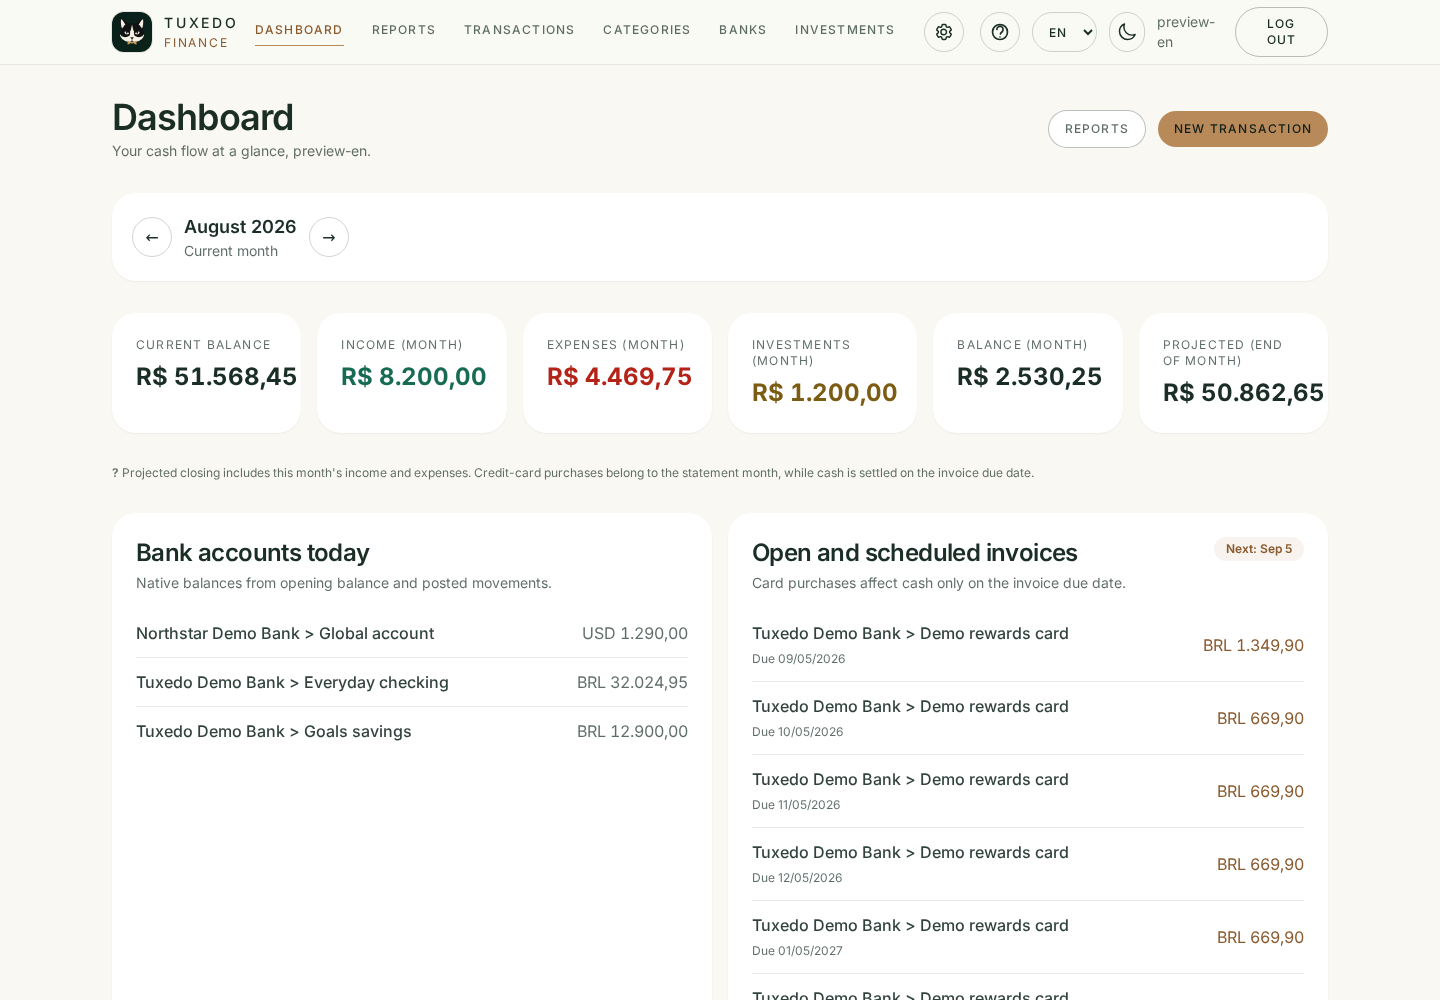
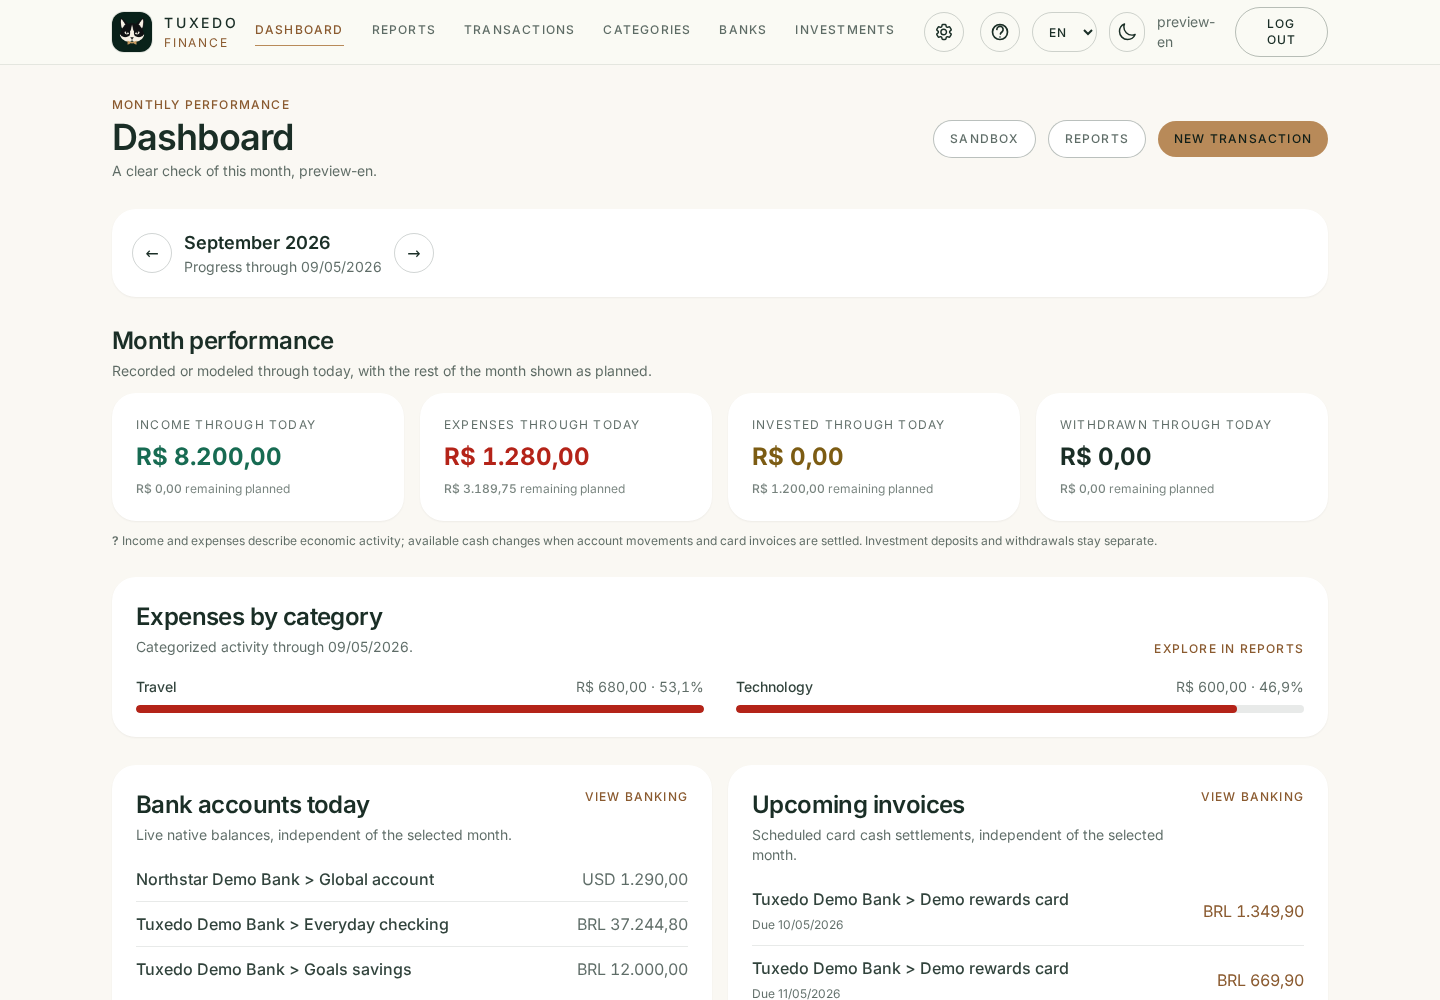
feat: enhance dark theme support and improve language navigation in preview

diff --git a/preview/pt-br/index.html b/preview/pt-br/index.html
@@ -23,7 +23,7 @@
             document.documentElement.dataset.theme = dark ? 'dark' : 'light';
         })();
     </script>
-    <link rel="stylesheet" href="../assets/preview.css">
+    <link rel="stylesheet" href="../assets/preview.css?v=2">
     <script src="../assets/preview.js" defer></script>
 </head>
 <body>
@@ -40,8 +40,8 @@
             </nav>
             <div class="header-actions">
                 <div class="language-switch" aria-label="Idioma">
-                    <a href="../" lang="en" hreflang="en">EN</a>
-                    <a href="./" lang="pt-BR" aria-current="page">PT</a>
+                    <a href="../index.html" lang="en" hreflang="en">EN</a>
+                    <a href="index.html" lang="pt-BR" aria-current="page">PT</a>
                 </div>
                 <button class="theme-toggle" type="button" data-theme-toggle aria-label="Alternar entre os temas claro e escuro" aria-pressed="false">
                     <span class="sun" aria-hidden="true">☀</span>
@@ -71,21 +71,21 @@
 
         <section class="tour-section" id="dashboard">
             <div class="section-heading">
-                <div><span class="section-number">01 / Dashboard</span><h2>O caixa de hoje e o restante do mês.</h2></div>
-                <p class="section-copy">Saldo Atual representa o caixa realizado nas contas. Os cartões do mês separam receitas, despesas e investimentos, enquanto Projetado mostra o fechamento esperado.</p>
+                <div><span class="section-number">01 / Dashboard</span><h2>Atividade mensal e contas atuais.</h2></div>
+                <p class="section-copy">O mês selecionado separa a atividade registrada do que está planejado, mantendo receitas, despesas, aportes e resgates distintos. Os saldos atuais das contas e as próximas faturas permanecem independentes do mês selecionado.</p>
             </div>
             <div class="screenshot-grid">
                 <figure>
                     <a class="screenshot-link" href="../images/pt-br/dashboard-light.png" data-lightbox>
-                        <img src="../images/pt-br/dashboard-light.png" width="1440" height="1000" alt="Dashboard do Tuxedo Finance no tema claro com saldo atual, totais mensais, contas bancárias e faturas programadas" fetchpriority="high" decoding="async">
+                        <img src="../images/pt-br/dashboard-light.png" width="1440" height="1000" alt="Dashboard do Tuxedo Finance no tema claro com atividade mensal, valores planejados, categorias de despesas, contas bancárias e próximas faturas" fetchpriority="high" decoding="async">
                     </a>
-                    <figcaption>Tema claro — caixa atual, atividade mensal e fechamento projetado.</figcaption>
+                    <figcaption>Tema claro — atividade mensal, valores planejados e contas atuais.</figcaption>
                 </figure>
                 <figure>
                     <a class="screenshot-link" href="../images/pt-br/dashboard-dark.png" data-lightbox>
                         <img src="../images/pt-br/dashboard-dark.png" width="1440" height="1000" alt="Dashboard do Tuxedo Finance mostrando o mesmo resumo financeiro sintético no tema escuro" loading="lazy" decoding="async">
                     </a>
-                    <figcaption>Tema escuro — os mesmos significados financeiros com cores acessíveis correspondentes.</figcaption>
+                    <figcaption>Tema escuro — superfícies em preto e grafite com cores financeiras distintas.</figcaption>
                 </figure>
             </div>
         </section>
@@ -112,7 +112,7 @@
                 <a class="screenshot-link" href="../images/pt-br/transactions-light.png" data-lightbox>
                     <img src="../images/pt-br/transactions-light.png" width="1440" height="1000" alt="Lista de transações com filtros e receitas, despesas fixas, parcelas no cartão e pagamentos PIX sintéticos" loading="lazy" decoding="async">
                 </a>
-                <figcaption>Pesquisa, ordenação, filtros mensais e exportação CSV apoiam consultas rápidas e revisões detalhadas.</figcaption>
+                <figcaption>Tipos de transação com contagens, atalhos de recorrência, categorias contextuais e filtros de datas complementam a pesquisa, a ordenação e a exportação CSV.</figcaption>
             </figure>
         </section>
 

diff --git a/preview/index.html b/preview/index.html
@@ -23,7 +23,7 @@
             document.documentElement.dataset.theme = dark ? 'dark' : 'light';
         })();
     </script>
-    <link rel="stylesheet" href="assets/preview.css">
+    <link rel="stylesheet" href="assets/preview.css?v=2">
     <script src="assets/preview.js" defer></script>
 </head>
 <body>
@@ -40,8 +40,8 @@
             </nav>
             <div class="header-actions">
                 <div class="language-switch" aria-label="Language">
-                    <a href="./" lang="en" aria-current="page">EN</a>
-                    <a href="pt-br/" lang="pt-BR" hreflang="pt-BR">PT</a>
+                    <a href="index.html" lang="en" aria-current="page">EN</a>
+                    <a href="pt-br/index.html" lang="pt-BR" hreflang="pt-BR">PT</a>
                 </div>
                 <button class="theme-toggle" type="button" data-theme-toggle aria-label="Toggle light and dark theme" aria-pressed="false">
                     <span class="sun" aria-hidden="true">☀</span>
@@ -71,21 +71,21 @@
 
         <section class="tour-section" id="dashboard">
             <div class="section-heading">
-                <div><span class="section-number">01 / Dashboard</span><h2>Cash today and the month ahead.</h2></div>
-                <p class="section-copy">Current Balance represents realized account cash. The month cards keep income, expenses and investments separate, while Projected shows the expected closing balance.</p>
+                <div><span class="section-number">01 / Dashboard</span><h2>Monthly activity and current accounts.</h2></div>
+                <p class="section-copy">The selected month separates recorded activity from what is planned, keeping income, expenses, investment deposits and withdrawals distinct. Current account balances and upcoming invoices remain independent of the selected month.</p>
             </div>
             <div class="screenshot-grid">
                 <figure>
                     <a class="screenshot-link" href="images/en/dashboard-light.png" data-lightbox>
-                        <img src="images/en/dashboard-light.png" width="1440" height="1000" alt="Tuxedo Finance dashboard in the light theme with current balance, monthly totals, bank accounts and scheduled card invoices" fetchpriority="high" decoding="async">
+                        <img src="images/en/dashboard-light.png" width="1440" height="1000" alt="Tuxedo Finance dashboard in the light theme with monthly activity, planned amounts, expense categories, bank accounts and upcoming card invoices" fetchpriority="high" decoding="async">
                     </a>
-                    <figcaption>Light theme — current cash, monthly activity and projected close.</figcaption>
+                    <figcaption>Light theme — monthly activity, planned amounts and current accounts.</figcaption>
                 </figure>
                 <figure>
                     <a class="screenshot-link" href="images/en/dashboard-dark.png" data-lightbox>
                         <img src="images/en/dashboard-dark.png" width="1440" height="1000" alt="Tuxedo Finance dashboard showing the same synthetic financial summary in the dark theme" loading="lazy" decoding="async">
                     </a>
-                    <figcaption>Dark theme — the same financial meanings with accessible companion colors.</figcaption>
+                    <figcaption>Dark theme — black and graphite surfaces with distinct financial colors.</figcaption>
                 </figure>
             </div>
         </section>
@@ -112,7 +112,7 @@
                 <a class="screenshot-link" href="images/en/transactions-light.png" data-lightbox>
                     <img src="images/en/transactions-light.png" width="1440" height="1000" alt="Transaction list with search filters and synthetic income, fixed expenses, card installments and PIX payments" loading="lazy" decoding="async">
                 </a>
-                <figcaption>Search, ordering, month filters and CSV export support both quick checks and detailed review.</figcaption>
+                <figcaption>Counted transaction types, recurrence shortcuts, contextual categories and date filters complement search, ordering and CSV export.</figcaption>
             </figure>
         </section>
 

diff --git a/tests/preview/preview.spec.js b/tests/preview/preview.spec.js
@@ -1,4 +1,6 @@
 const { test, expect } = require('@playwright/test');
+const path = require('node:path');
+const { pathToFileURL } = require('node:url');
 
 const browserErrors = new WeakMap();
 
@@ -73,26 +75,56 @@ test('English and Portuguese tours use localized pages and image sets', async ({
     await expectInternalLinks(page);
 
     await page.getByRole('link', { name: 'PT', exact: true }).click();
-    await expect(page).toHaveURL(/\/pt-br\/$/);
+    await expect(page).toHaveURL(/\/pt-br\/index\.html$/);
     await expect(page.locator('html')).toHaveAttribute('lang', 'pt-BR');
     await expect(page.getByRole('heading', { level: 1 })).toContainText('Conheça suas finanças');
     await expectScreenshots(page, 'pt-br');
     await expectInternalLinks(page);
 
     await page.getByRole('link', { name: 'EN', exact: true }).click();
-    await expect(page).toHaveURL(/\/$/);
+    await expect(page).toHaveURL(/\/index\.html$/);
+});
+
+test('local HTML files support language navigation without JavaScript', async ({ browser }) => {
+    const context = await browser.newContext({ javaScriptEnabled: false });
+    const page = await context.newPage();
+    try {
+        const englishURL = pathToFileURL(path.resolve(__dirname, '../../preview/index.html')).href;
+        const portugueseURL = pathToFileURL(path.resolve(__dirname, '../../preview/pt-br/index.html')).href;
+        await page.goto(englishURL);
+        await page.getByRole('link', { name: 'PT', exact: true }).click();
+        await expect(page).toHaveURL(portugueseURL);
+        await expect(page.getByRole('heading', { level: 1 })).toContainText('Conheça suas finanças');
+        await page.getByRole('link', { name: 'PT', exact: true }).click();
+        await expect(page).toHaveURL(portugueseURL);
+        await page.getByRole('link', { name: 'EN', exact: true }).click();
+        await expect(page).toHaveURL(englishURL);
+        await expect(page.getByRole('heading', { level: 1 })).toContainText('Meet your finances');
+    } finally {
+        await context.close();
+    }
 });
 
 test('theme toggle persists the selected preview theme', async ({ page }) => {
+    await page.emulateMedia({ colorScheme: 'light' });
     await page.goto('/');
-    const before = await page.locator('html').getAttribute('data-theme');
+    await expect(page.locator('body')).toHaveCSS('background-color', 'rgb(250, 248, 243)');
+    await expect(page.locator('.screenshot-link').first()).toHaveCSS('background-color', 'rgb(255, 255, 255)');
     await page.getByRole('button', { name: 'Toggle light and dark theme' }).click();
-    const after = await page.locator('html').getAttribute('data-theme');
-    expect(after).not.toBe(before);
+    await expect(page.locator('html')).toHaveAttribute('data-theme', 'dark');
+    await expect(page.locator('body')).toHaveCSS('background-color', 'rgb(16, 16, 16)');
+    await expect(page.locator('.screenshot-link').first()).toHaveCSS('background-color', 'rgb(27, 27, 27)');
+    await page.locator('.theme-toggle').hover();
+    await expect(page.locator('.theme-toggle')).toHaveCSS('background-color', 'rgb(38, 38, 38)');
     await expect(page.getByRole('button', { name: 'Toggle light and dark theme' }))
-        .toHaveAttribute('aria-pressed', String(after === 'dark'));
+        .toHaveAttribute('aria-pressed', 'true');
     await page.reload();
-    await expect(page.locator('html')).toHaveAttribute('data-theme', after);
+    await expect(page.locator('html')).toHaveAttribute('data-theme', 'dark');
+    await page.getByRole('link', { name: 'PT', exact: true }).click();
+    await expect(page.locator('html')).toHaveAttribute('data-theme', 'dark');
+    await expect(page.locator('body')).toHaveCSS('background-color', 'rgb(16, 16, 16)');
+    await page.getByRole('button', { name: 'Alternar entre os temas claro e escuro' }).click();
+    await expect(page.locator('body')).toHaveCSS('background-color', 'rgb(250, 248, 243)');
 });
 
 test('expanded screenshots close accessibly and restore focus', async ({ page }) => {

diff --git a/preview/assets/preview.css b/preview/assets/preview.css
@@ -5,6 +5,9 @@
     --forest: #1a2e26;
     --forest-deep: #101e18;
     --forest-light: #2a4338;
+    --night: #101010;
+    --night-surface: #1b1b1b;
+    --night-raised: #262626;
     --caramel: #b88a59;
     --caramel-light: #d4ad86;
     --caramel-ink: #8a5a2f;
@@ -16,8 +19,8 @@
 
 :root[data-theme="dark"] {
     color-scheme: dark;
-    --surface: var(--forest);
-    --muted: #b8c0bc;
+    --surface: var(--night-surface);
+    --muted: #b8b8b8;
     --line: rgba(250, 248, 243, 0.15);
     --shadow: 0 24px 70px rgba(0, 0, 0, 0.34);
 }
@@ -41,7 +44,7 @@ body {
 }
 
 :root[data-theme="dark"] body {
-    background: var(--forest-deep);
+    background: var(--night);
     color: var(--cream);
 }
 
@@ -57,6 +60,14 @@ a {
 :focus-visible {
     outline: 3px solid var(--caramel);
     outline-offset: 3px;
+}
+
+:root[data-theme="dark"] :focus-visible {
+    outline-color: var(--caramel-light);
+}
+
+:root[data-theme="dark"] .skip-link {
+    background: var(--night-raised);
 }
 
 .skip-link {
@@ -85,7 +96,7 @@ a {
 }
 
 :root[data-theme="dark"] .site-header {
-    background: color-mix(in srgb, var(--forest-deep) 90%, transparent);
+    background: color-mix(in srgb, var(--night) 90%, transparent);
 }
 
 .header-inner,
@@ -146,6 +157,10 @@ a {
     color: var(--caramel-ink);
 }
 
+:root[data-theme="dark"] .tour-nav a:hover {
+    color: var(--caramel-light);
+}
+
 .language-switch {
     border: 1px solid var(--line);
     border-radius: 999px;
@@ -167,7 +182,7 @@ a {
 
 :root[data-theme="dark"] .language-switch a[aria-current="page"] {
     background: var(--cream);
-    color: var(--forest-deep);
+    color: var(--night);
 }
 
 .theme-toggle {
@@ -271,6 +286,21 @@ a {
     border-color: var(--caramel);
 }
 
+:root[data-theme="dark"] .theme-toggle,
+:root[data-theme="dark"] .button:not(.button-primary) {
+    border-color: #808080;
+}
+
+:root[data-theme="dark"] .theme-toggle:hover,
+:root[data-theme="dark"] .button:not(.button-primary):hover,
+:root[data-theme="dark"] .language-switch a:not([aria-current="page"]):hover {
+    background: var(--night-raised);
+}
+
+:root[data-theme="dark"] .button-primary {
+    color: var(--night);
+}
+
 .notice {
     border: 1px solid color-mix(in srgb, var(--caramel) 42%, transparent);
     border-radius: 1.5rem;
@@ -347,6 +377,10 @@ figure {
     transform: scale(1.08);
 }
 
+:root[data-theme="dark"] .screenshot-link::after {
+    background: rgba(16, 16, 16, 0.88);
+}
+
 .screenshot-link img {
     display: block;
     width: 100%;
@@ -378,6 +412,10 @@ figcaption {
     backdrop-filter: blur(8px);
 }
 
+:root[data-theme="dark"] .image-dialog::backdrop {
+    background: rgba(0, 0, 0, 0.86);
+}
+
 .dialog-inner {
     position: relative;
 }
@@ -405,6 +443,15 @@ figcaption {
     color: var(--cream);
     cursor: pointer;
     font-size: 1.35rem;
+}
+
+:root[data-theme="dark"] .dialog-close {
+    background: rgba(16, 16, 16, 0.92);
+    border-color: #808080;
+}
+
+:root[data-theme="dark"] .dialog-close:hover {
+    background: var(--night-raised);
 }
 
 .site-footer {

diff --git a/.github/preview/README.md b/.github/preview/README.md
@@ -17,7 +17,25 @@ The files that GitHub Pages publishes remain in `preview/`. Preview browser
 assertions remain in `tests/preview/`, and `.github/workflows/pages.yml`
 publishes only `preview/` after changes reach `main`.
 
+The tour preserves its section layout and light palette. Its dark theme matches
+the application's `night` tokens in `tailwind.config.js`: background `#101010`,
+surface `#1B1B1B`, raised/hover surface `#262626`, and muted text `#B8B8B8`.
+Caramel actions and the financial colors in application screenshots retain
+their meanings. Keep both language editions and their captions in sync with the
+current dashboard and transaction navigation when refreshing captures.
+
 ## Commands
+
+For local browsing, open `preview/index.html` or `preview/pt-br/index.html`
+directly. Language links include `index.html` so they also work with `file://`
+and JavaScript disabled. If an embedded browser blocks local files, serve the
+tour from the repository root with:
+
+```bash
+python3 -m http.server 4173 --bind 127.0.0.1 --directory preview
+```
+
+Then visit <http://127.0.0.1:4173/pt-br/> for Portuguese.
 
 Install the [development prerequisites](../../CONTRIBUTING.md#prerequisites),
 then run maintenance commands from the repository root. This workflow is

diff --git a/CHANGELOG.md b/CHANGELOG.md
@@ -7,12 +7,21 @@ and project versions follow [Semantic Versioning](https://semver.org/).
 
 ## [Unreleased]
 
+### Fixed
+
+- Static preview language links now target HTML files explicitly, allowing
+  English/Portuguese navigation when the tour is opened locally with `file://`.
+
 ### Added
 
 - Portuguese README with reciprocal language links and version validation for
   both English and Portuguese editions.
 
 ### Changed
+
+- Static interface tour now matches the black/graphite dark theme, with all 12
+  synthetic screenshots refreshed from the current application and bilingual
+  captions aligned with monthly dashboard activity and transaction navigation.
 
 - Transactions now use counted type cards, contextual category choices and
   recurrence shortcuts, with progressive date filters and no-JavaScript
